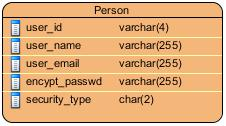
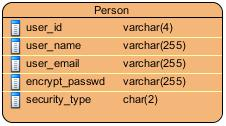
update sql, diagram, add updateUserSecurity
correct spelling encypt -> encrypt

diff --git a/Person.php b/Person.php
@@ -10,7 +10,7 @@ class Person
     private $name;
     private $user_email;
     private $passwd;
-    private $encypt_passwd;   // from passwd
+    private $encrypt_passwd;   // from passwd
     private $security_type = "1";
     private $encrypt_strategy = NULL;  // (object type) consider from security_type
 
@@ -83,7 +83,7 @@ class Person
 
         // disable for test
         // insert into db (table person)
-        $this->insertUser();
+        // $this->insertUser();
     }
     
     // call by setDataToInsertAccount
@@ -110,7 +110,7 @@ class Person
             'epasswd' => $this->getEncryptPassword(),
             'st' => $this->getSecurityType(),
         ];
-        $sql = "INSERT INTO person (user_id , user_name, user_email, encypt_passwd, security_type) VALUES (:uid, :name, :email, :epasswd, :st)";
+        $sql = "INSERT INTO person (user_id , user_name, user_email, encrypt_passwd, security_type) VALUES (:uid, :name, :email, :epasswd, :st)";
         try
         {
             $stmt= $this->db->prepare($sql);
@@ -119,32 +119,66 @@ class Person
         }
         catch (PDOException $e)
         {
-            echo 'Query error.';
+            echo 'Insert error.';
             die();
             return false;
         }
     }
 
     // used by Update Password Page (change security type and password)
+    // param user_id, new_password, security_type
     public function switchEncryptTypeUpdatePassword($etype,$uid,$new_password){
-        if($etype==1){
+        $this->uid = $uid;
+        $this->security_type = $etype;
+        $this->passwd = $new_password;
+        if($this->getSecurityType()==1){
             $this->encrypt_strategy = new EncryptType1();
-        } else if($etype==2){
+        } else if($this->getSecurityType()==2){
             $this->encrypt_strategy = new EncryptType2();
         }
-        
-        $this->passwd = $new_password;
+
+        // gen new_encrypt_passwd from new_password
         $this->encrypt_passwd = $this->performEncrypt();
         // check data befor implement
-        echo "NP1 ".$this->passwd;
-        echo "<br>";
-        echo "EP1 ".$this->encrypt_passwd;
-
-        // param user_id, new_password, security_type
-        // gen new_encypt_passwd from new_password
-        // change attribute securyity_type and encypt_passwd
+        // echo "<br>";
+        // echo "UID : ".$this->getUid();
+        // echo "<br>";
+        // echo "Security_type : ".$this->getSecurityType();      
+        // echo "<br>";
+        // echo "NP1 : ".$this->getPassword();
+        // echo "<br>";
+        // echo "ENP1 : ".$this->getEncryptPassword();
+        // echo "<br>";
+        // change attribute securyity_type and encrypt_passwd
         // update new_security_type, new_encypt_passwd to db (table person) by user_id
-        // return updatestatus (boolean)
+        if($this->updateUserSecurity()==true){
+            return true;
+        }else {
+            return false;
+        }
+        // return update status (boolean)
+    }
+
+    // call by switchEncryptTypeUpdatePassword (when change password by admin)
+    private function updateUserSecurity(){
+        $data = [
+            'uid' => $this->getUid(),
+            'epasswd' => $this->getEncryptPassword(),
+            'st' => $this->getSecurityType(),
+        ];
+        $sql = "UPDATE person SET encrypt_passwd=:epasswd, security_type=:st WHERE user_id=:uid";
+        try
+        {
+            $stmt= $this->db->prepare($sql);
+            $stmt->execute($data);
+            return true;
+        }
+        catch (PDOException $e)
+        {
+            echo 'Update error.';
+            die();
+            return false;
+        }
     }
 
     // used by LogIn Page
@@ -153,7 +187,7 @@ class Person
         $this->user_email = $user_email_in;
         $this->passwd = $user_password_in;
         
-        // get encypt_passwd and security_type
+        // get encrypt_passwd and security_type
         // set $this->security_type, $this->encrypt_passwd
         if($this->getPersonDataForVerify()==true){
             return $this->verifyEncrypt();
@@ -172,7 +206,7 @@ class Person
     }
 
     // call by checkLogin
-    // set $this->encypt_passwd before call (by getPersonDataForVerify)
+    // set $this->encrypt_passwd before call (by getPersonDataForVerify)
     // verify
     // return boolean
     private function verifyEncrypt(){
@@ -180,22 +214,20 @@ class Person
             $this->encrypt_strategy = new EncryptType1();
             return $this->encrypt_strategy->verify($this->getPassword(),$this->getEncryptPassword());
         }else if($this->getSecurityType() =="2"){
-            echo "Password : ".$this->getPassword();
+            // echo "Password : ".$this->getPassword();
             $this->encrypt_strategy = new EncryptType2();
-            echo "<br>";
-            echo "Encrypt : ".$this->getEncryptPassword();
-            echo "<br>";
+            // echo "<br>";
+            // echo "Encrypt : ".$this->getEncryptPassword();
+            // echo "<br>";
             return $this->encrypt_strategy->verify($this->getPassword(),$this->getEncryptPassword());      
         }
     }
 
-    // get security_type_db and encypt_passwd_db from db
-    // set security_type และ encypt_passwd for verify
+    // get security_type_db and encrypt_passwd_db from db
+    // set security_type และ encrypt_passwd for verify
     // call by checkLogin
     // change to public for test (default private)
     public function getPersonDataForVerify(){
-
-        
         $sql = "SELECT * FROM person WHERE user_email=:uemail";
         try
         {
@@ -204,13 +236,13 @@ class Person
             $person = $stmt->fetch();
             // $person (array result)
             // for novice test
-            echo $person['encypt_passwd'];
-            echo "<br>";
-            echo $person['security_type'];
-            echo "<br>";
+            // echo $person['encrypt_passwd'];
+            // echo "<br>";
+            // echo $person['security_type'];
+            // echo "<br>";
             // data for verify
+            $this->encrypt_passwd = $person['encrypt_passwd'];
             $this->security_type = $person['security_type'];
-            $this->encrypt_passwd = $person['encypt_passwd'];
             return true;
         }
         catch (PDOException $e)
@@ -224,14 +256,14 @@ class Person
     // call by tester check to change algorithm (another class)
     // dynamic binding for test only
     // method switchEncryptTypeUpdatePassword for real use
-    public function setEncryptType($etype){
-        if($etype==1){
-            $this->encrypt_strategy = new EncryptType1();
-        } else if($etype==2){
-            $this->encrypt_strategy = new EncryptType2();
-        }
-        
-        $this->encrypt_passwd = $this->performEncrypt();
-    }
+    // public function setEncryptType($etype){
+    //     $this->security_type = $etype;
+    //     if($this->getSecurityType()==1){
+    //         $this->encrypt_strategy = new EncryptType1();
+    //     } else if($this->getSecurityType()==2){
+    //         $this->encrypt_strategy = new EncryptType2();
+    //     }
+    //     $this->encrypt_passwd = $this->performEncrypt();
+    // }
 }
 ?>

diff --git a/PersonTest.php b/PersonTest.php
@@ -13,7 +13,7 @@ class PersonTest extends TestCase {
         $this->p1 = new Person($this->con->connect());
     }
     
-    //for test only (used getXXX) before run diable $this->insertUser(); in setDataToInsertAccount
+    //for test only (used getXXX) before run disable $this->insertUser(); in setDataToInsertAccount
     // public function testCreateObject(){
     //     $this->p1->setDataToInsertAccount("2166","Somchai","somchai@myresearch.com","test","2");
     //     $this->assertEquals("2166",$this->p1->getUid());
@@ -23,7 +23,7 @@ class PersonTest extends TestCase {
     //     $this->assertEquals("2",$this->p1->getSecurityType());
     // }
 
-    //for test only (used getXXX) before run diable $this->insertUser(); in setDataToInsertAccount
+    //for test only (used getXXX) before run disable $this->insertUser(); in setDataToInsertAccount
     // public function testEncryptionType1(){
     //     $this->p1->setDataToInsertAccount("2166","Somchai","somchai@myresearch.com","test","1");
     //     $this->assertTrue(password_verify($this->p1->getPassword(), $this->p1->getEncryptPassword()));
@@ -35,7 +35,7 @@ class PersonTest extends TestCase {
     //     $this->assertTrue(md5($this->p1->getPassword()) == $this->p1->getEncryptPassword());
     // }
 
-    // //for test only (used getXXX) before run diable $this->insertUser(); in setDataToInsertAccount
+    //for test only (used getXXX) before run disable $this->insertUser(); in setDataToInsertAccount
     // public function testChangeEncrptionType(){
     //     $this->p1->setDataToInsertAccount("2166","Somchai","somchai@myresearch.com","test","1");
     //     $this->assertTrue(password_verify($this->p1->getPassword(), $this->p1->getEncryptPassword()));
@@ -44,8 +44,13 @@ class PersonTest extends TestCase {
     //     $this->assertTrue(md5($this->p1->getPassword()) == $this->p1->getEncryptPassword());
     // }
 
-    public function testCheckLogin(){
-        $this->assertTrue($this->p1->checkLogin("somchai@myresearch.com","test"));
-        $this->assertTrue($this->p1->checkLogin("somsak@myresearch.com","test"));
+    // public function testCheckLogin(){
+    //     $this->assertTrue($this->p1->checkLogin("somchai@myresearch.com","test"));
+    //     $this->assertTrue($this->p1->checkLogin("somsak@myresearch.com","test"));
+    // }
+
+    public function testChangeSecurity(){
+        $this->assertTrue($this->p1->switchEncryptTypeUpdatePassword("2","2167","secret"));
+        $this->assertTrue($this->p1->checkLogin("somsak@myresearch.com","secret"));
     }
 }

diff --git a/novicetest.php b/novicetest.php
@@ -87,10 +87,10 @@ $p1 = new Person($con->connect());
 //     die();
 // }
 
- echo "Return : ".$p1->checkLogin("somchai@myresearch.com","test");
+// echo "Return : ".$p1->checkLogin("somchai@myresearch.com","test");
  
  // Add User
  // $p1->setDataToInsertAccount("2167","Somsak","somsak@myresearch.com","test","1");
- echo "<br>";
- $p1->switchEncryptTypeUpdatePassword("2","2166","secret");
+//  echo "<br>";
+ $p1->switchEncryptTypeUpdatePassword("1","2167","test");
 ?>
